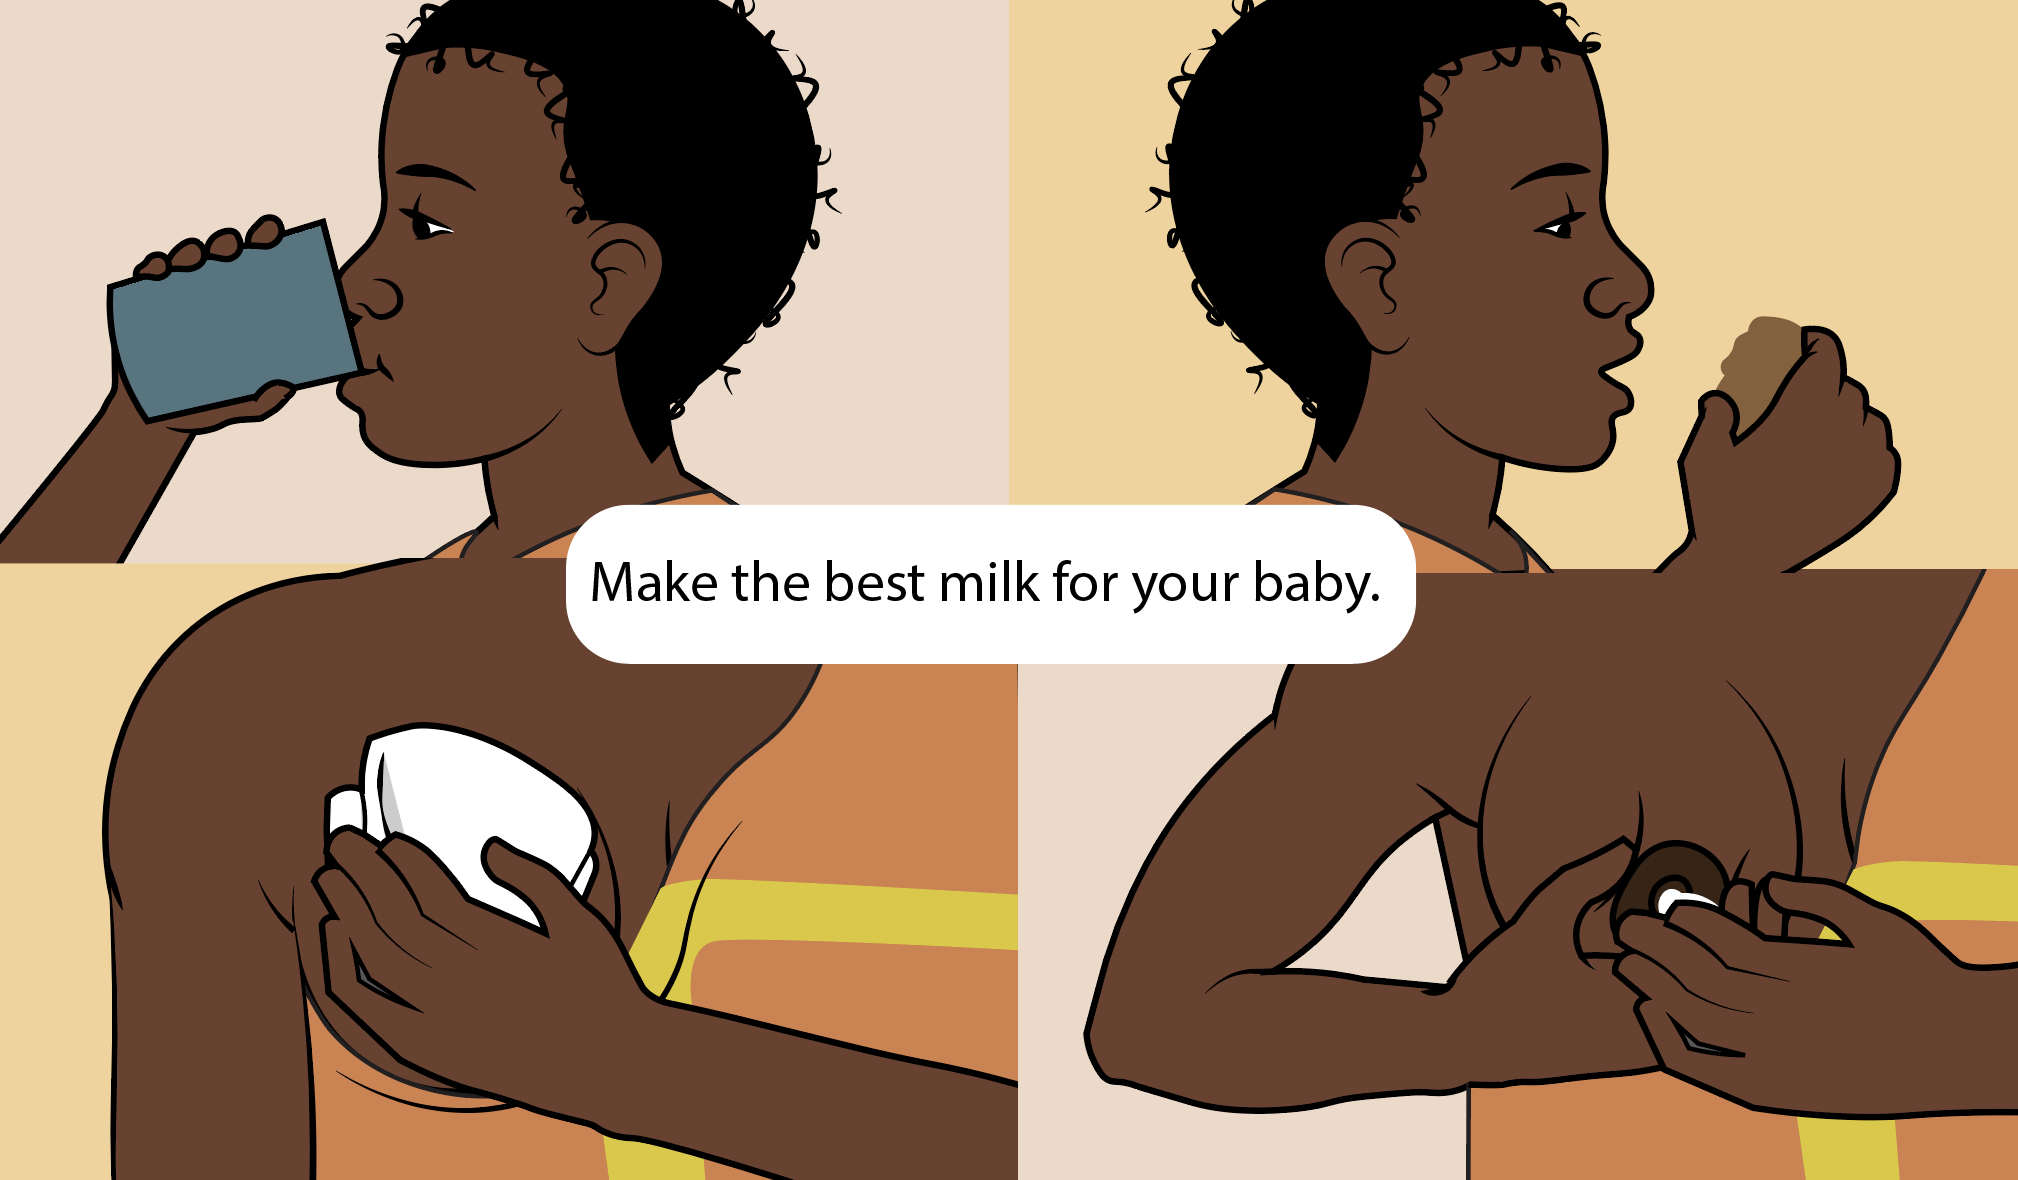
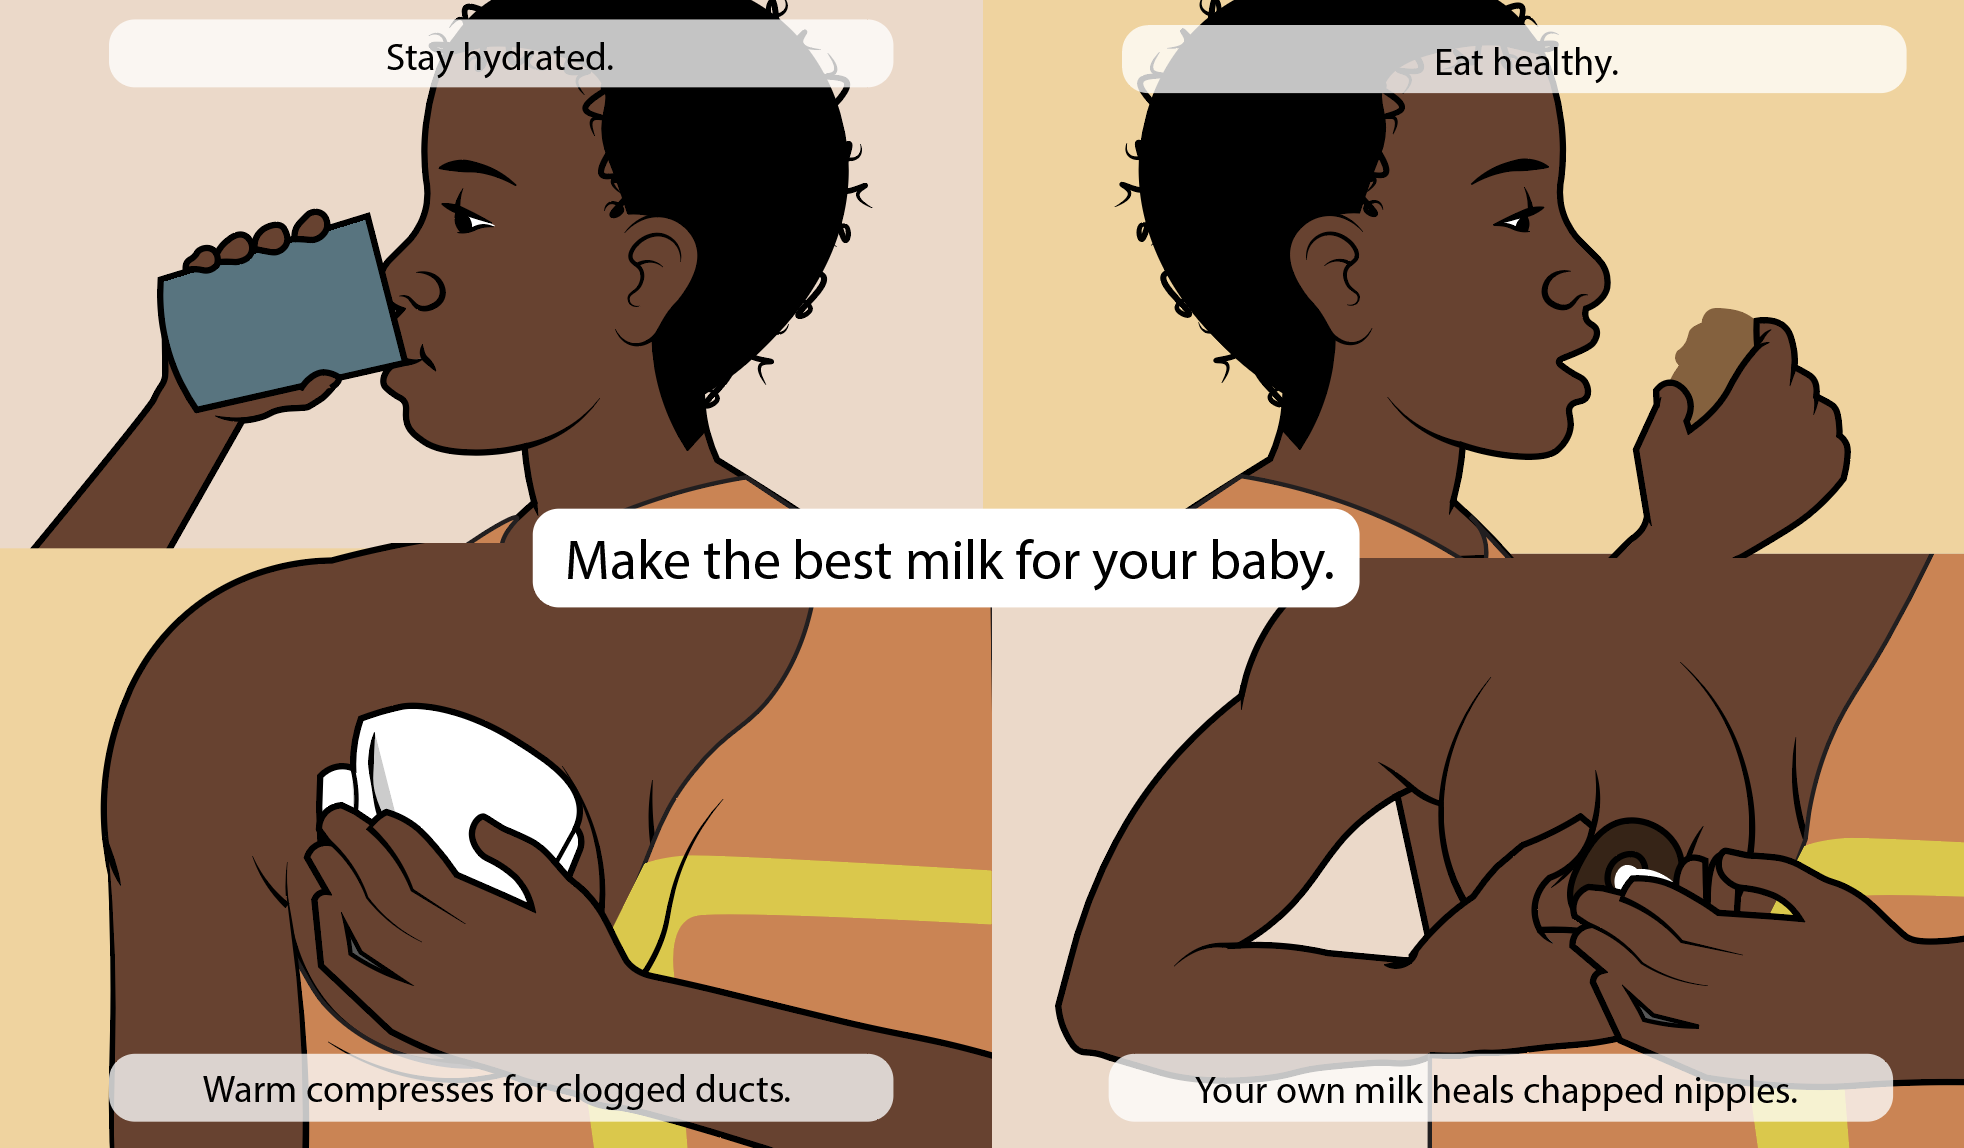
Add Mama Self Care Educational Module and update other modules

diff --git a/otapp/screens/MamaSelfCare.js b/otapp/screens/MamaSelfCare.js
@@ -1,7 +1,7 @@
 import React, { Component } from 'react';
 import { StyleSheet, Text, View, Image, ScrollView, Dimensions } from 'react-native';
 
-class KeepingBabyClean extends React.Component{
+class MamaSelfCare extends React.Component{
     render(){
         return (
             <ScrollView
@@ -12,49 +12,42 @@ class KeepingBabyClean extends React.Component{
                     <Image 
                         style={{ width: Dimensions.get('window').width, height: Dimensions.get('window').height-75 }}
                         resizeMode="contain"
-                        source={require('../assets/Hygiene1.png')} />
+                        source={require('../assets/Mama1.png')} />
                 </View>
 
                 <View style={styles.container}>
                     <Image 
                         style={{  width: Dimensions.get('window').width, height: Dimensions.get('window').height-75  }}
                         resizeMode="contain"
-                        source={require('../assets/Hygiene2.png')} />
+                        source={require('../assets/Mama2.png')} />
                 </View>
 
                 <View style={styles.container}>
                     <Image 
                         style={{ width: Dimensions.get('window').width, height: Dimensions.get('window').height-75 }}
                         resizeMode="contain"
-                        source={require('../assets/Hygiene3.png')} />
+                        source={require('../assets/Mama3.png')} />
                 </View>
 
                 <View style={styles.container}>
                     <Image 
                         style={{ width: Dimensions.get('window').width, height: Dimensions.get('window').height-75 }}
                         resizeMode="contain"
-                        source={require('../assets/Hygiene4.png')} />
+                        source={require('../assets/Mama4.png')} />
                 </View>
 
                 <View style={styles.container}>
                     <Image 
                         style={{ width: Dimensions.get('window').width, height: Dimensions.get('window').height-75 }}
                         resizeMode="contain"
-                        source={require('../assets/Hygiene5.png')} />
-                </View>
-
-                <View style={styles.container}>
-                    <Image 
-                        style={{ width: Dimensions.get('window').width, height: Dimensions.get('window').height-75 }}
-                        resizeMode="contain"
-                        source={require('../assets/Hygiene6.png')} />
+                        source={require('../assets/Mama5.png')} />
                 </View>
 
             </ScrollView>
         );
     }
 }
-export default KeepingBabyClean;
+export default MamaSelfCare;
 
 const styles = StyleSheet.create({
     container:{

diff --git a/otapp/ScreenContainer.js b/otapp/ScreenContainer.js
@@ -13,6 +13,7 @@ import Messages from "./screens/Messages";
 import Database from "./screens/Database";
 import SignUp from "./screens/SignUp";
 import Login from "./screens/Login";
+import MamaSelfCare from "./screens/MamaSelfCare";
 
 const NavigationStack = createStackNavigator({
   Home: { screen: HomeScreen,
@@ -121,8 +122,17 @@ const NavigationStack = createStackNavigator({
     },
    },
   },
+  MamaSelfCare: {
+    screen: MamaSelfCare,
+    navigationOptions: { headerTitle: "Mama Self Care",
+    headerStyle: {
+      backgroundColor: "#c691a7",
+      borderBottomColor: "#c691a7",
+      borderBottomWidth: 3,
+    },
+   },
+  },
 });
-
 const Container = createAppContainer(NavigationStack);
 
 export default Container;

diff --git a/otapp/screens/ModulesPage.js b/otapp/screens/ModulesPage.js
@@ -22,6 +22,12 @@ class ModulesPage extends React.Component{
                     color="#955d74" //dark pink
                     onPress={() => this.props.navigation.navigate("WhenBabyGetsSick")}
                 />
+
+                <Button
+                    title="Mama Self Care"
+                    color="#955d74" //dark pink
+                    onPress={() => this.props.navigation.navigate("MamaSelfCare")}
+                />  
                 
             </View>
         );
